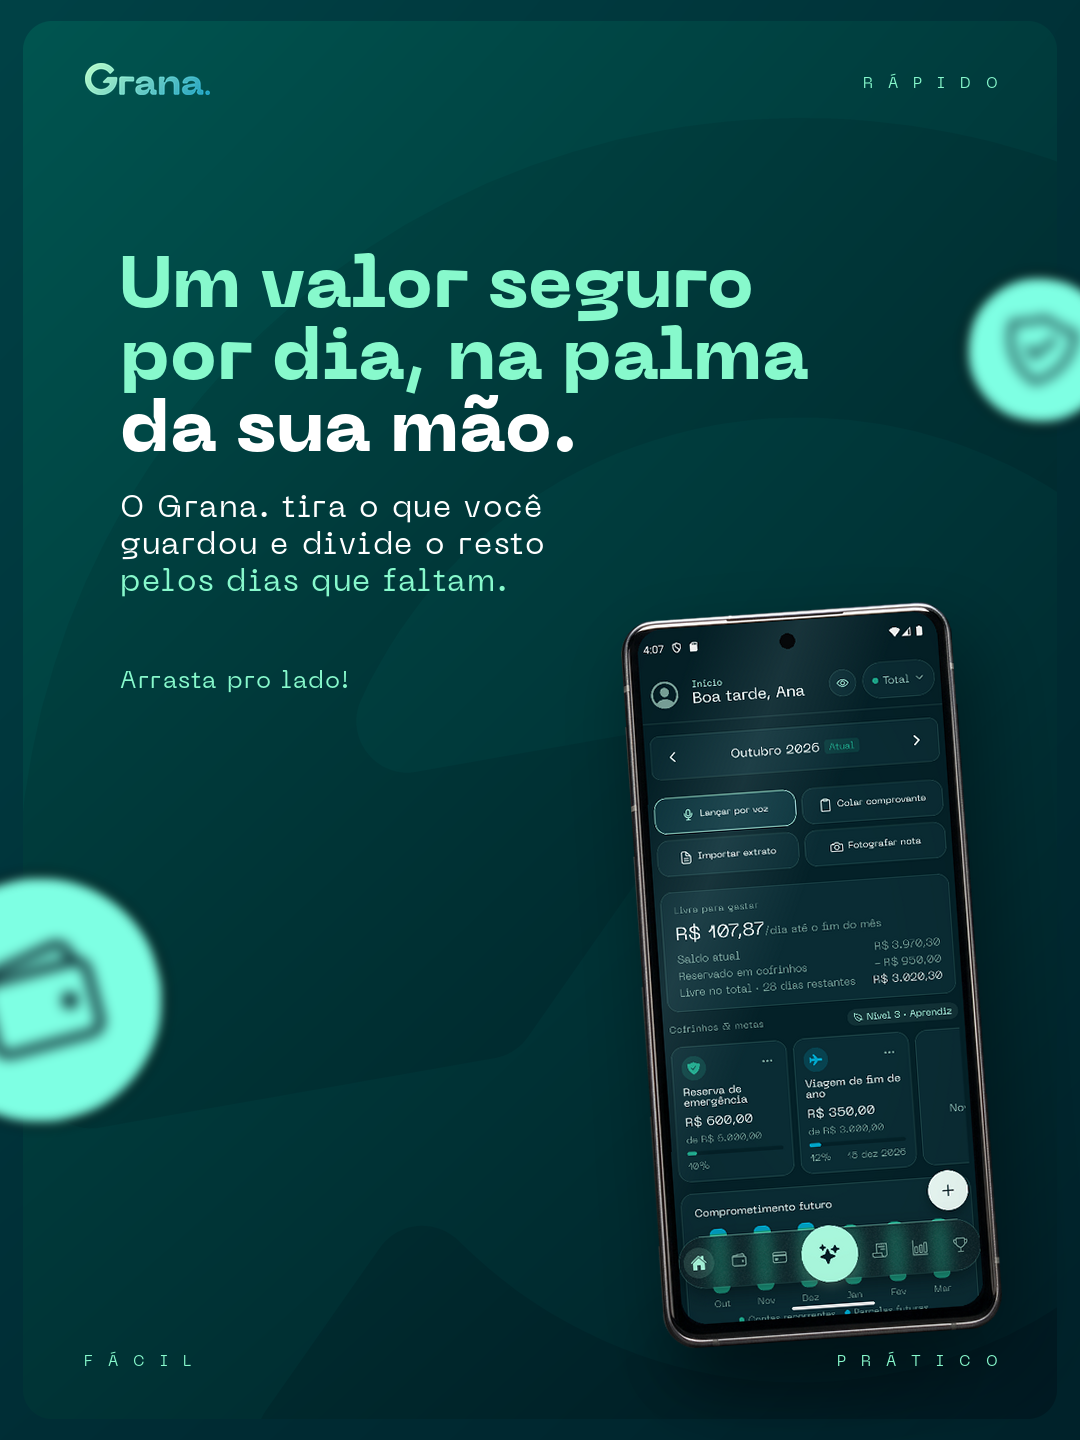
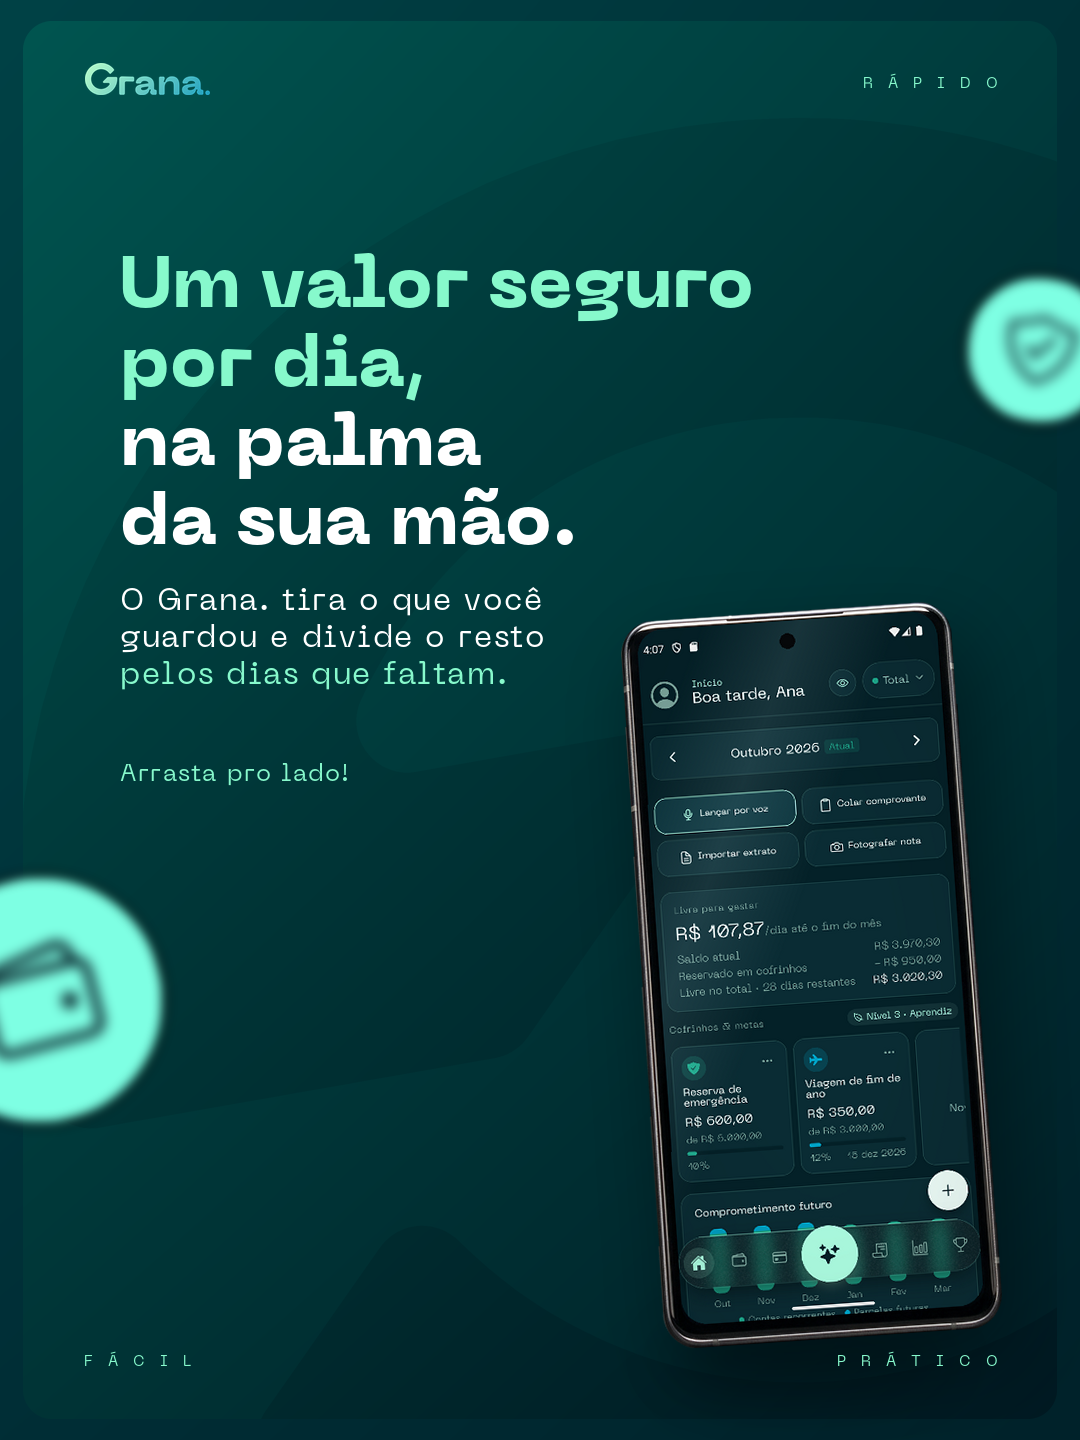
fix(marketing): carrossel lumen-v7 v2, H1 dos slides 3 a 5 com as quebras e cores da copy (aguarda aceite)
Slide 5 sem 'com' sozinho; slides 3 e 4 com H1 em 4 linhas, 2 menta e 2 brancas; icone do slide 4 fora da assinatura.
Slides 1 e 2 inalterados (bytes identicos). Mesmo caminho, nova versao.

Changed region(s): [[0.0917, 0.2188, 0.7639, 0.5], [0.1528, 0.5312, 0.2444, 0.5625], [0.275, 0.5312, 0.3056, 0.5625]]

diff --git a/docs/marketing/2026-10/semana-42-2026-10-12-a-2026-10-18/apoio/ferramentas/gerar-carrossel-feed-3x4.py b/docs/marketing/2026-10/semana-42-2026-10-12-a-2026-10-18/apoio/ferramentas/gerar-carrossel-feed-3x4.py
@@ -149,16 +149,16 @@ SLIDES = {
         aparelhos=[dict(tipo='celular', tela=tela('inicio'), centro=(810, 975), altura=730, incl=4)],
         icones=[dict(nome='carteira', centro=(40, 1000), d=250, rot=-15),
                 dict(nome='seguranca', centro=(1040, 350), d=150, rot=10)],
-        texto=dict(x=L, y=307, h1=[[('Um valor seguro', MENTA)], [('por dia, na palma', MENTA)], [('da sua mão.', BRANCO)]], entrelinha=72,
+        texto=dict(x=L, y=307, h1=[[('Um valor seguro', MENTA)], [('por dia,', MENTA)], [('na palma', BRANCO)], [('da sua mão.', BRANCO)]], entrelinha=79,
                    h2=[[('O Grana. tira o que você', BRANCO)], [('guardou e divide o resto', BRANCO)], [('pelos dias que faltam.', MENTA)]],
                    sig='Arrasta pro lado!')),
     4: dict(  # uso no dia a dia: notebook embaixo + celular na frente (arquétipo B)
         g=dict(cx=22, cy=700, r=800, rot=0, delta=-12), luz_direita=True,
-        aparelhos=[dict(tipo='notebook', tela=os.path.join(CAPT, 'web', 'inicio.png'), centro=(480, 1062), largura=850),
-                   dict(tipo='celular', tela=tela('lancamentos'), centro=(840, 1050), altura=480, incl=3)],
+        aparelhos=[dict(tipo='notebook', tela=os.path.join(CAPT, 'web', 'inicio.png'), centro=(470, 1088), largura=810),
+                   dict(tipo='celular', tela=tela('lancamentos'), centro=(820, 1075), altura=455, incl=3)],
         icones=[dict(nome='cafe', centro=(1040, 420), d=210, rot=12),
-                dict(nome='computador', centro=(60, 840), d=250, rot=-15)],
-        texto=dict(x=L, y=307, h1=[[('Aquele café', MENTA)], [('ou delivery,', MENTA)], [('sem peso no bolso.', BRANCO)]], entrelinha=79,
+                dict(nome='computador', centro=(25, 215), d=170, rot=-15)],
+        texto=dict(x=L, y=307, h1=[[('Aquele café', MENTA)], [('ou delivery,', MENTA)], [('sem peso', BRANCO)], [('no bolso.', BRANCO)]], entrelinha=79,
                    h2=[[('Bateu a dúvida antes de gastar?', BRANCO)], [('Uma olhada de três segundos', BRANCO)], [('mostra se cabe no dia.', MENTA)]],
                    sig='Arrasta pro lado!')),
     5: dict(  # fechamento: texto à direita, celular embaixo à esquerda
@@ -166,7 +166,7 @@ SLIDES = {
         aparelhos=[dict(tipo='celular', tela=tela('graficos'), centro=(270, 975), altura=730, incl=-5)],
         icones=[dict(nome='graficos', centro=(40, 360), d=170, rot=-15),
                 dict(nome='dinheiro', centro=(1040, 1130), d=260, rot=15)],
-        texto=dict(x=R, y=307, alinhar='dir', h1=[[('Termine o mês', MENTA)], [('com', BRANCO)], [('tranquilidade.', BRANCO)]], entrelinha=79,
+        texto=dict(x=R, y=307, alinhar='dir', h1=[[('Termine o mês', MENTA)], [('com tranquilidade.', BRANCO)]], entrelinha=79,
                    h2=[[('Controle financeiro simples', BRANCO)], [('de verdade, por menos de', BRANCO)], [('R$ 0,37 por dia.', MENTA)]],
                    sig='Comece agora no link da bio.')),
 }
